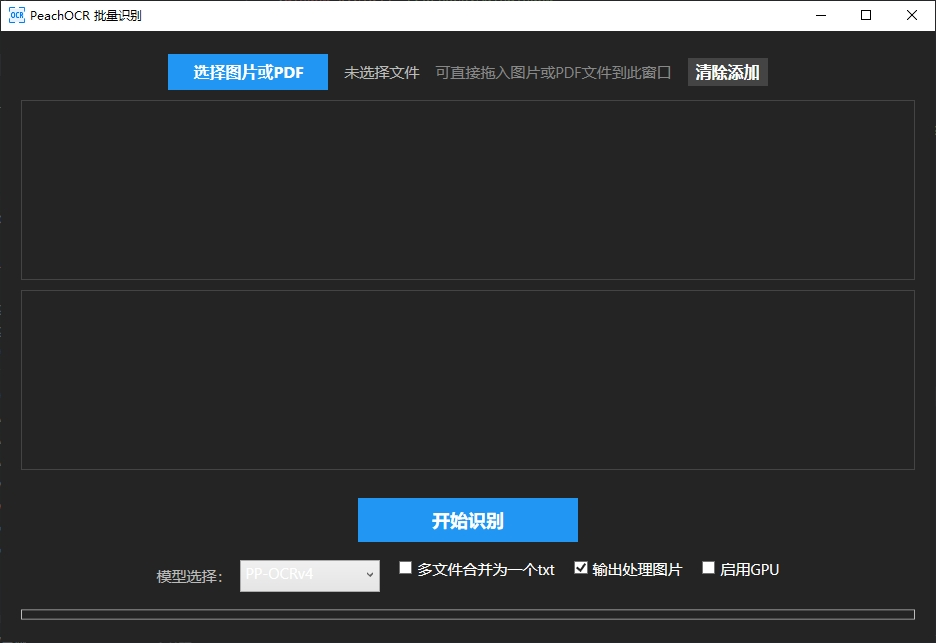
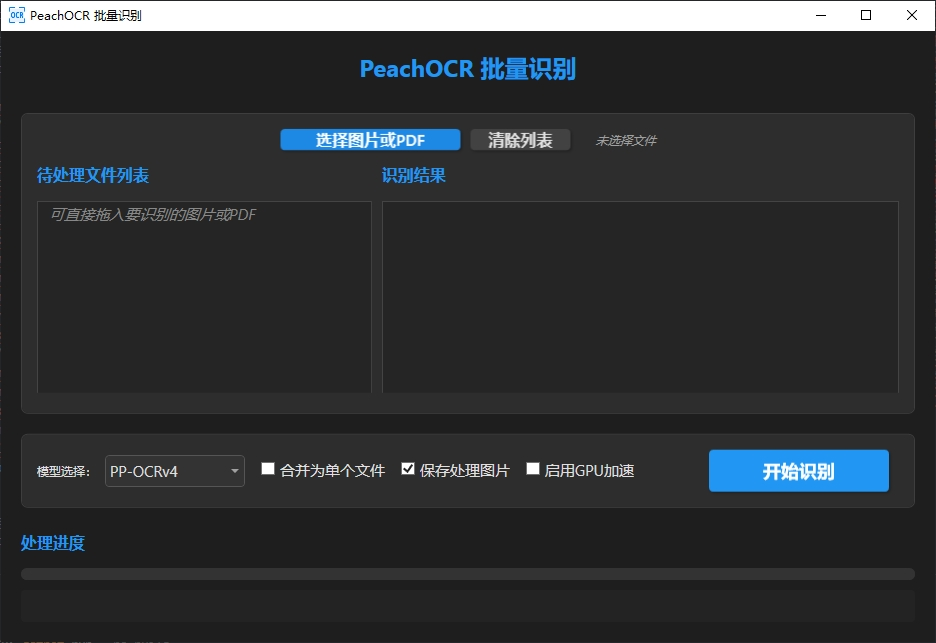
美化UI

diff --git a/MainWindow.xaml b/MainWindow.xaml
@@ -303,8 +303,9 @@
                                        Foreground="#888"
                                        FontStyle="Italic"
                                        FontSize="15"
-                                       HorizontalAlignment="Center"
-                                       VerticalAlignment="Center"
+                                       HorizontalAlignment="Left"
+                                       VerticalAlignment="Top"
+                                       Margin="12,8,0,0"
                                        IsHitTestVisible="False"
                                        Visibility="Collapsed"
                                        />

diff --git a/README.md b/README.md
@@ -2,6 +2,8 @@
 
 PeachOCR 是一个基于 .NET 8 WPF 框架开发的本地批量图片/PDF文字识别工具，集成了 PaddleOCR、OpenVINO、OpenCV 等高性能推理与图像处理库，支持中文、英文等多语言文本识别。
 
+[PeachOCR-UI](docs\images\PeachOCR-UI.jpg)
+
 ## 主要特性
 
 - 支持批量图片（JPG/PNG/BMP/TIFF/WEBP）和 PDF 文件文字识别
